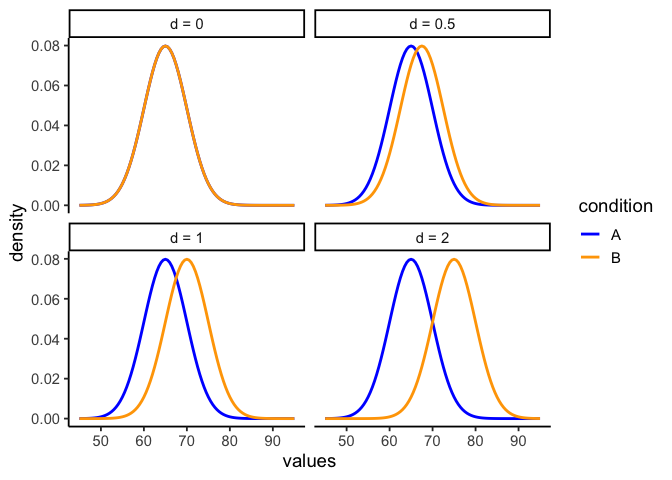
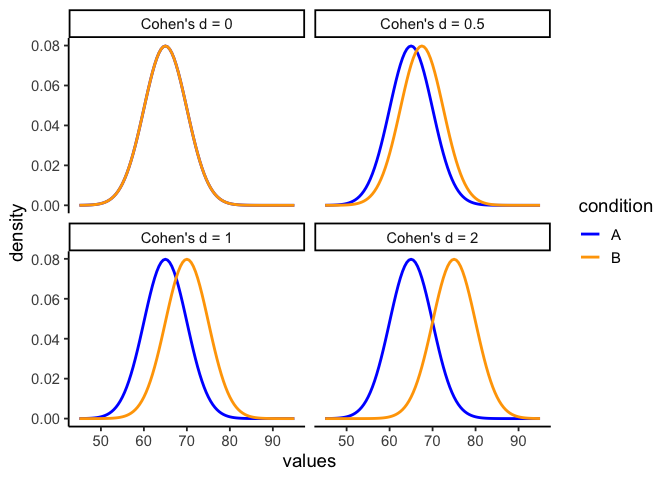
Ch5-6 (live, before Exam 2): Cohen's d throughout Ch5; Ch5 power at d = 0.2 is about 7%, not near zero; Ch6 rule of thumb for |t| > 2, power is estimated by simulation and computed exactly; render Ch5-6

diff --git a/docs/05-Hypothesis_Testing.html b/docs/05-Hypothesis_Testing.html
@@ -523,27 +523,27 @@ Figure&nbsp;5.5: The Type II situation at two sample sizes, with the same <span 
 </ul>
 <p>These statements are easy to interpret, but they are hard to compare across contexts or measures.</p>
 <p><strong>Standardized (unitless).</strong> When units are unfamiliar or scales differ, standardize by typical variability. The most common standardized effect size metric is <strong>Cohen’s <em>d</em></strong> <span class="citation" data-cites="Cohen1988">(<a href="references.html#ref-Cohen1988" role="doc-biblioref">Cohen 1988</a>)</span>. It divides the raw difference, <span class="math inline">\(\Delta\)</span>, by the population standard deviation:</p>
-<p><span class="math display">\[d = \frac{\Delta}{\sigma}\]</span></p>
+<p><span class="math display">\[\text{Cohen's } d = \frac{\Delta}{\sigma}\]</span></p>
 <p><span class="math inline">\(\Delta\)</span> is <span class="math inline">\(\mu_1 - \mu_2\)</span> when comparing two groups, or <span class="math inline">\(\mu - \mu_0\)</span> when testing one mean against a reference value. Now “how big?” is expressed in SD units.</p>
-<p><strong><span class="math inline">\(d\)</span> has the same numerator as <span class="math inline">\(z\)</span> but a different denominator.</strong> Chapter 4 gave the general shape, effect over error, and filled it in with the <span class="math inline">\(z\)</span>:</p>
-<p><span class="math display">\[z = \frac{\bar{x}-\mu_0}{\sigma/\sqrt{n}} \qquad \text{versus} \qquad d = \frac{\mu_1-\mu_2}{\sigma}\]</span></p>
-<p>Both numerators are the effect. The test statistic divides by the standard error, which shrinks as <span class="math inline">\(n\)</span> grows, so <span class="math inline">\(z\)</span> gets larger with more data even when the effect stays exactly the same. Cohen’s <span class="math inline">\(d\)</span> divides by the standard deviation, which does not shrink with <span class="math inline">\(n\)</span>, so <span class="math inline">\(d\)</span> reports the size of the effect itself.</p>
-<p>A large test statistic therefore does not mean a large effect, and the two numbers answer different questions. With enough data, a trivial difference can produce a <span class="math inline">\(z\)</span> as large as you like, while <span class="math inline">\(d\)</span> stays small. The <span class="math inline">\(t\)</span> in Chapter 6 is the same ratio with an estimated <span class="math inline">\(s\)</span> in place of a known <span class="math inline">\(\sigma\)</span>, so the same holds for <span class="math inline">\(t\)</span>.</p>
+<p><strong>Cohen’s <span class="math inline">\(d\)</span> has the same numerator as <span class="math inline">\(z\)</span> but a different denominator.</strong> Chapter 4 gave the general shape, effect over error, and filled it in with the <span class="math inline">\(z\)</span>:</p>
+<p><span class="math display">\[z = \frac{\bar{x}-\mu_0}{\sigma/\sqrt{n}} \qquad \text{versus} \qquad \text{Cohen's } d = \frac{\mu_1-\mu_2}{\sigma}\]</span></p>
+<p>Both numerators are the effect. The test statistic divides by the standard error, which shrinks as <span class="math inline">\(n\)</span> grows, so <span class="math inline">\(z\)</span> gets larger with more data even when the effect stays exactly the same. Cohen’s <span class="math inline">\(d\)</span> divides by the standard deviation, which does not shrink with <span class="math inline">\(n\)</span>, so Cohen’s <span class="math inline">\(d\)</span> reports the size of the effect itself.</p>
+<p>A large test statistic therefore does not mean a large effect, and the two numbers answer different questions. With enough data, a trivial difference can produce a <span class="math inline">\(z\)</span> as large as you like, while Cohen’s <span class="math inline">\(d\)</span> stays small. The <span class="math inline">\(t\)</span> in Chapter 6 is the same ratio with an estimated <span class="math inline">\(s\)</span> in place of a known <span class="math inline">\(\sigma\)</span>, so the same holds for <span class="math inline">\(t\)</span>.</p>
 <p><strong>Environmental example (biodiversity index).</strong> Suppose an index increases from 3 to 4 after reforestation.</p>
 <ul>
 <li><p>In raw units: +1 index point.</p></li>
 <li><p>In standardized terms:</p>
 <ul>
-<li>If the SD across sites is 1.0, then <span class="math inline">\(d = 1.0\)</span>: a large shift.</li>
-<li>If the SD is 10, then <span class="math inline">\(d = 0.10\)</span>: a small shift.</li>
+<li>If the SD across sites is 1.0, then Cohen’s <span class="math inline">\(d = 1.0\)</span>: a large shift.</li>
+<li>If the SD is 10, then Cohen’s <span class="math inline">\(d = 0.10\)</span>: a small shift.</li>
 </ul></li>
 </ul>
 <p><strong>Planning uses <span class="math inline">\(\Delta\)</span>.</strong> To plan a study, <span class="math inline">\(\Delta\)</span> is enough: it is the size of the effect you expect to see, in the units of the study, and there is no need to standardize it. Cohen’s <span class="math inline">\(d\)</span> standardizes it so that effect sizes can be compared across studies.</p>
 <p><strong>Notes for practice</strong></p>
 <ul>
 <li>In real data, <span class="math inline">\(\sigma\)</span> is unknown; estimate it (pooled SD for two groups, with small-sample corrections as needed).</li>
-<li>Heuristics (context matters): <span class="math inline">\(d \approx 0.2\)</span> (small), <span class="math inline">\(d \approx 0.5\)</span> (medium), <span class="math inline">\(d \approx 0.8\)</span> (large).</li>
-<li>A “small” <span class="math inline">\(d\)</span> can still be important (e.g., small reductions in lead or <span class="math inline">\(\mathrm{PM}_{2.5}\)</span> can matter for health).</li>
+<li>Heuristics (context matters): Cohen’s <span class="math inline">\(d \approx 0.2\)</span> (small), 0.5 (medium), 0.8 (large).</li>
+<li>A “small” Cohen’s <span class="math inline">\(d\)</span> can still be important (e.g., small reductions in lead or <span class="math inline">\(\mathrm{PM}_{2.5}\)</span> can matter for health).</li>
 <li>Report a 95% CI with each effect size to show how precisely it was estimated.</li>
 </ul>
 <p>Suppose we’re measuring final exam performance (percent correct). The class mean is 65% with a standard deviation of 5%. Group A is a control, while Group B receives some instructional treatment.</p>
@@ -556,19 +556,19 @@ Figure&nbsp;5.5: The Type II situation at two sample sizes, with the same <span 
 <img src="05-Hypothesis_Testing_files/figure-html/fig-5.5effectdistsB-1.png" class="img-fluid figure-img" style="width:100.0%" alt="Four panels, each showing two overlaid bell-shaped density curves for groups A and B. In the first panel the curves sit exactly on top of each other (no shift). In the next three panels group B's curve shifts progressively further right of group A's, first by a small amount, then a larger amount, and finally a shift so large the two curves barely overlap at all.">
 </div>
 <figcaption class="quarto-float-caption-bottom quarto-float-caption quarto-float-fig" id="fig-5.5effectdistsB-caption-0ceaefa1-69ba-4598-a22c-09a6ac19f8ca">
-Figure&nbsp;5.6: Same idea with concrete scores (mean <span class="math inline">\(65\)</span>, <span class="math inline">\(sd=5\)</span>): treatment shifts correspond to <span class="math inline">\(d=0,\,0.5,\,1,\,2\)</span>.
+Figure&nbsp;5.6: Same idea with concrete scores (mean <span class="math inline">\(65\)</span>, <span class="math inline">\(sd=5\)</span>): treatment shifts correspond to Cohen’s <span class="math inline">\(d=0,\,0.5,\,1,\,2\)</span>.
 </figcaption>
 </figure>
 </div>
 </div>
 </div>
 <ul>
-<li><strong>Panel 1 (<span class="math inline">\(d=0\)</span>).</strong> No effect. Both groups sample from the same distribution (mean = 65).</li>
-<li><strong>Panel 2 (<span class="math inline">\(d=0.5\)</span>).</strong> Group B’s mean shifts upward by 2.5 points (67.5).</li>
-<li><strong>Panel 3 (<span class="math inline">\(d=1\)</span>).</strong> A 5-point shift (70).</li>
-<li><strong>Panel 4 (<span class="math inline">\(d=2\)</span>).</strong> A large 10-point shift (75).</li>
+<li><strong>Panel 1 (Cohen’s <span class="math inline">\(d=0\)</span>).</strong> No effect. Both groups sample from the same distribution (mean = 65).</li>
+<li><strong>Panel 2 (Cohen’s <span class="math inline">\(d=0.5\)</span>).</strong> Group B’s mean shifts upward by 2.5 points (67.5).</li>
+<li><strong>Panel 3 (Cohen’s <span class="math inline">\(d=1\)</span>).</strong> A 5-point shift (70).</li>
+<li><strong>Panel 4 (Cohen’s <span class="math inline">\(d=2\)</span>).</strong> A large 10-point shift (75).</li>
 </ul>
-<p>In <a href="#fig-5.5effectdistsB" class="quarto-xref">Figure&nbsp;<span>5.6</span></a>, a half-SD shift (<span class="math inline">\(d = 0.5\)</span>, 2.5 points) leaves the two curves mostly overlapping, and a two-SD shift (<span class="math inline">\(d = 2\)</span>, 10 points) separates them. In practice, we rarely know beforehand how big a shift to expect.</p>
+<p>In <a href="#fig-5.5effectdistsB" class="quarto-xref">Figure&nbsp;<span>5.6</span></a>, a half-SD shift (Cohen’s <span class="math inline">\(d = 0.5\)</span>, 2.5 points) leaves the two curves mostly overlapping, and a two-SD shift (Cohen’s <span class="math inline">\(d = 2\)</span>, 10 points) separates them. In practice, we rarely know beforehand how big a shift to expect.</p>
 </section>
 <section id="power" class="level2" data-number="5.4">
 <h2 data-number="5.4" class="anchored" data-anchor-id="power"><span class="header-section-number">5.4</span> Power</h2>
@@ -638,10 +638,10 @@ Figure&nbsp;5.6: Same idea with concrete scores (mean <span class="math inline">
 <p>A design’s power depends on how large the true effect is. A power curve plots the power of one fixed design against a range of effect sizes. <a href="#fig-5.5powercurve" class="quarto-xref">Figure&nbsp;<span>5.7</span></a> fixes the design at a two-sample <span class="math inline">\(t\)</span>-test with <span class="math inline">\(n=10\)</span> per group and <span class="math inline">\(\alpha=0.05\)</span>, and plots power against the true effect size, Cohen’s <span class="math inline">\(d\)</span>.</p>
 <div class="cell">
 <div class="cell-output-display">
-<div id="fig-5.5powercurve" class="quarto-float quarto-figure quarto-figure-center anchored" alt="Line graph of power against effect size (Cohen's d) from 0 to 2. The curve starts near 0.05 at d = 0, rises slowly at first, then climbs steeply through the middle of the range, and flattens out near 1.0 as d approaches 2.">
+<div id="fig-5.5powercurve" class="quarto-float quarto-figure quarto-figure-center anchored" alt="Line graph of power against effect size (Cohen's d) from 0 to 2. The curve starts near 0.05 at Cohen's d = 0, rises slowly at first, then climbs steeply through the middle of the range, and flattens out near 1.0 as Cohen's d approaches 2.">
 <figure class="quarto-float quarto-float-fig figure">
 <div aria-describedby="fig-5.5powercurve-caption-0ceaefa1-69ba-4598-a22c-09a6ac19f8ca">
-<img src="05-Hypothesis_Testing_files/figure-html/fig-5.5powercurve-1.png" class="img-fluid figure-img" style="width:100.0%" alt="Line graph of power against effect size (Cohen's d) from 0 to 2. The curve starts near 0.05 at d = 0, rises slowly at first, then climbs steeply through the middle of the range, and flattens out near 1.0 as d approaches 2.">
+<img src="05-Hypothesis_Testing_files/figure-html/fig-5.5powercurve-1.png" class="img-fluid figure-img" style="width:100.0%" alt="Line graph of power against effect size (Cohen's d) from 0 to 2. The curve starts near 0.05 at Cohen's d = 0, rises slowly at first, then climbs steeply through the middle of the range, and flattens out near 1.0 as Cohen's d approaches 2.">
 </div>
 <figcaption class="quarto-float-caption-bottom quarto-float-caption quarto-float-fig" id="fig-5.5powercurve-caption-0ceaefa1-69ba-4598-a22c-09a6ac19f8ca">
 Figure&nbsp;5.7: Power vs.&nbsp;effect size (Cohen’s <span class="math inline">\(d\)</span>) for a two-sample <span class="math inline">\(t\)</span>-test with <span class="math inline">\(n=10\)</span> per group and <span class="math inline">\(\alpha=0.05\)</span>.
@@ -650,9 +650,9 @@ Figure&nbsp;5.7: Power vs.&nbsp;effect size (Cohen’s <span class="math inline"
 </div>
 </div>
 </div>
-<p>With 10 per group, this design detects a medium effect (<span class="math inline">\(d=0.5\)</span>) only about 18% of the time, a larger effect (<span class="math inline">\(d=0.8\)</span>) about 40% of the time, and a very large effect (<span class="math inline">\(d=2\)</span>) almost every time (about 99%). With <span class="math inline">\(n = 10\)</span> per group, only large effects are detected reliably.</p>
-<p>The simulation above estimated power at <span class="math inline">\(d = 0.5\)</span> as about 21%. The two numbers differ because 1,000 simulated experiments give an estimate, while the curve is computed exactly.</p>
-<p>The second curve holds the effect size fixed and varies the sample size. Suppose prior research suggests the effect is small (<span class="math inline">\(d=0.2\)</span>). <a href="#fig-5.5powercurveN" class="quarto-xref">Figure&nbsp;<span>5.8</span></a> plots power against sample size for <span class="math inline">\(d=0.2\)</span>, with a dashed line at 80% power, a common planning target.</p>
+<p>With 10 per group, this design detects a medium effect (Cohen’s <span class="math inline">\(d=0.5\)</span>) only about 18% of the time, a larger effect (Cohen’s <span class="math inline">\(d=0.8\)</span>) about 40% of the time, and a very large effect (Cohen’s <span class="math inline">\(d=2\)</span>) almost every time (about 99%). With <span class="math inline">\(n = 10\)</span> per group, only large effects are detected reliably.</p>
+<p>The simulation above estimated power at Cohen’s <span class="math inline">\(d = 0.5\)</span> as about 21%. The two numbers differ because 1,000 simulated experiments give an estimate, while the curve is computed exactly.</p>
+<p>The second curve holds the effect size fixed and varies the sample size. Suppose prior research suggests the effect is small (Cohen’s <span class="math inline">\(d=0.2\)</span>). <a href="#fig-5.5powercurveN" class="quarto-xref">Figure&nbsp;<span>5.8</span></a> plots power against sample size for Cohen’s <span class="math inline">\(d=0.2\)</span>, with a dashed line at 80% power, a common planning target.</p>
 <div class="cell">
 <div class="cell-output-display">
 <div id="fig-5.5powercurveN" class="quarto-float quarto-figure quarto-figure-center anchored" alt="Line graph of power against sample size per group, from 10 to 800. Power starts near zero at small sample sizes and rises in a curve that flattens as it approaches 1.0. A horizontal reference line at 0.80 power crosses the curve around a sample size of roughly 394 per group.">
@@ -661,13 +661,13 @@ Figure&nbsp;5.7: Power vs.&nbsp;effect size (Cohen’s <span class="math inline"
 <img src="05-Hypothesis_Testing_files/figure-html/fig-5.5powercurveN-1.png" class="img-fluid figure-img" style="width:100.0%" alt="Line graph of power against sample size per group, from 10 to 800. Power starts near zero at small sample sizes and rises in a curve that flattens as it approaches 1.0. A horizontal reference line at 0.80 power crosses the curve around a sample size of roughly 394 per group.">
 </div>
 <figcaption class="quarto-float-caption-bottom quarto-float-caption quarto-float-fig" id="fig-5.5powercurveN-caption-0ceaefa1-69ba-4598-a22c-09a6ac19f8ca">
-Figure&nbsp;5.8: Power vs.&nbsp;sample size for detecting <span class="math inline">\(d=0.2\)</span> with a two-sample <span class="math inline">\(t\)</span>-test at <span class="math inline">\(\alpha=0.05\)</span>; dashed line marks <span class="math inline">\(0.80\)</span> power.
+Figure&nbsp;5.8: Power vs.&nbsp;sample size for detecting Cohen’s <span class="math inline">\(d=0.2\)</span> with a two-sample <span class="math inline">\(t\)</span>-test at <span class="math inline">\(\alpha=0.05\)</span>; dashed line marks <span class="math inline">\(0.80\)</span> power.
 </figcaption>
 </figure>
 </div>
 </div>
 </div>
-<p>At 10 per group, power to detect <span class="math inline">\(d=0.2\)</span> is near zero. Reaching 80% power takes about 394 per group. At that sample size, 20% of studies would still fail to reject <span class="math inline">\(H_0\)</span> for a real effect of <span class="math inline">\(d = 0.2\)</span>.</p>
+<p>At 10 per group, power to detect Cohen’s <span class="math inline">\(d=0.2\)</span> is about 7%. Reaching 80% power takes about 394 per group. At that sample size, 20% of studies would still fail to reject <span class="math inline">\(H_0\)</span> for a real effect of Cohen’s <span class="math inline">\(d = 0.2\)</span>.</p>
 <p>Power analysis is a planning tool. A power target such as 0.8 is calculated for a specific effect size and standard deviation, so report both with it.</p>
 </section>
 <section id="planning-your-design" class="level3" data-number="5.4.4">
@@ -676,7 +676,7 @@ Figure&nbsp;5.8: Power vs.&nbsp;sample size for detecting <span class="math inli
 <ul>
 <li>Define a meaningful effect, <span class="math inline">\(\Delta\)</span>: the smallest difference from <span class="math inline">\(\mu_0\)</span> that would change what you do. State it in the units of the measurement.</li>
 <li>Choose <span class="math inline">\(\alpha\)</span> (often 0.05; justify if different).</li>
-<li>Estimate variability, <span class="math inline">\(\sigma\)</span> (pilot data, literature, or historical monitoring). With <span class="math inline">\(\Delta\)</span> and <span class="math inline">\(\sigma\)</span> you have <span class="math inline">\(d\)</span>, which is what a power calculation needs.</li>
+<li>Estimate variability, <span class="math inline">\(\sigma\)</span> (pilot data, literature, or historical monitoring). With <span class="math inline">\(\Delta\)</span> and <span class="math inline">\(\sigma\)</span> you have Cohen’s <span class="math inline">\(d\)</span>, which is what a power calculation needs.</li>
 <li>Compute <span class="math inline">\(n\)</span> for <span class="math inline">\(\ge 80\%\)</span> power (or explain tradeoffs if you can’t reach it).</li>
 <li>Pre-specify one- vs two-tailed before data collection.</li>
 </ul>
@@ -694,7 +694,7 @@ Figure&nbsp;5.8: Power vs.&nbsp;sample size for detecting <span class="math inli
 <p>Do not compute power after the fact for the effect you observed. This <strong>post-hoc power</strong> is a restatement of the <span class="math inline">\(p\)</span>-value, so a non-significant result always has low post-hoc power. Power for a difference chosen in advance, such as the smallest effect that matters, is fine to report.</p>
 </div>
 </div>
-<p>With 10 per group, only effects of about <span class="math inline">\(d = 1.3\)</span> or larger reach 80% power, and detecting <span class="math inline">\(d = 0.2\)</span> with 80% power takes about 394 per group. Plan the design so it can reliably detect the effects it is meant to measure.</p>
+<p>With 10 per group, only effects of about Cohen’s <span class="math inline">\(d = 1.3\)</span> or larger reach 80% power, and detecting Cohen’s <span class="math inline">\(d = 0.2\)</span> with 80% power takes about 394 per group. Plan the design so it can reliably detect the effects it is meant to measure.</p>
 </section>
 <section id="two-cautions" class="level3" data-number="5.4.5">
 <h3 data-number="5.4.5" class="anchored" data-anchor-id="two-cautions"><span class="header-section-number">5.4.5</span> Two cautions</h3>

diff --git a/docs/06-ttests.html b/docs/06-ttests.html
@@ -426,7 +426,7 @@ Figure&nbsp;6.1: Normal (<span class="math inline">\(z\)</span>) vs.&nbsp;<span 
 <li><span class="math inline">\(z\)</span> uses critical values <span class="math inline">\(\pm 1.96\)</span>.</li>
 <li><span class="math inline">\(t\)</span> uses wider cutoffs for small samples: <span class="math inline">\(\pm 2.26\)</span> at <span class="math inline">\(df = 9\)</span>, <span class="math inline">\(\pm 2.09\)</span> at <span class="math inline">\(df = 20\)</span>, <span class="math inline">\(\pm 2.05\)</span> at <span class="math inline">\(df = 29\)</span>. They approach <span class="math inline">\(\pm 1.96\)</span> as <span class="math inline">\(n\)</span> increases.</li>
 </ul>
-<p><strong>Rule of thumb.</strong> Under <span class="math inline">\(H_0\)</span>, <span class="math inline">\(|t|\)</span> beyond about 2 is rare.</p>
+<p><strong>Rule of thumb.</strong> Under <span class="math inline">\(H_0\)</span>, <span class="math inline">\(|t|\)</span> beyond about 2 happens about 5% of the time once <span class="math inline">\(df\)</span> is 30 or more. With fewer <span class="math inline">\(df\)</span> it happens more often, about 8% at <span class="math inline">\(df = 9\)</span>.</p>
 </section>
 <section id="t-when-h_0-is-true" class="level3" data-number="6.2.4">
 <h3 data-number="6.2.4" class="anchored" data-anchor-id="t-when-h_0-is-true"><span class="header-section-number">6.2.4</span> <span class="math inline">\(t\)</span> when <span class="math inline">\(H_0\)</span> is true</h3>
@@ -940,7 +940,7 @@ Table&nbsp;6.1: The three <span class="math inline">\(t\)</span>-tests compared.
 <section id="simulating-data-for-t-tests" class="level2" data-number="6.6">
 <h2 data-number="6.6" class="anchored" data-anchor-id="simulating-data-for-t-tests"><span class="header-section-number">6.6</span> Simulating data for t-tests</h2>
 <p>Earlier in this chapter we simulated <span class="math inline">\(t\)</span> under <span class="math inline">\(H_0\)</span> and saw its null distribution in <a href="#fig-6t-sim" class="quarto-xref">Figure&nbsp;<span>6.2</span></a>. The same kind of simulation also gives a <span class="math inline">\(p\)</span>-value for each repetition, and those <span class="math inline">\(p\)</span>-values show what a test does when <span class="math inline">\(H_0\)</span> is true and when it is false.</p>
-<p>Simulating under conditions you choose shows how sampling error affects results for a given sample size, expected difference, and amount of variation. Formal power analyses use the same method.</p>
+<p>Simulating under conditions you choose shows how sampling error affects results for a given sample size, expected difference, and amount of variation. Chapter 5 estimated power the same way and checked each estimate against the exact power computed from the <span class="math inline">\(t\)</span> distribution.</p>
 <section id="simulating-a-one-sample-t-test" class="level3" data-number="6.6.1">
 <h3 data-number="6.6.1" class="anchored" data-anchor-id="simulating-a-one-sample-t-test"><span class="header-section-number">6.6.1</span> Simulating a one-sample t-test</h3>
 <p>A simulation has two steps.</p>
@@ -984,7 +984,7 @@ Figure&nbsp;6.9: 1,000 simulated <span class="math inline">\(p\)</span>-values (
 </div>
 </div>
 </div>
-<p>With a real difference, the <span class="math inline">\(p\)</span>-values pile up near 0, while under <span class="math inline">\(H_0\)</span> in <a href="#fig-6flatp" class="quarto-xref">Figure&nbsp;<span>6.8</span></a> they spread evenly from 0 to 1. Here <span class="math inline">\(H_0\)</span> is false, so rejecting it is a correct decision, not a Type I error. The first bar holds the 187 experiments that rejected <span class="math inline">\(H_0\)</span>, and their share of the 1,000 is the design’s power. The other 813 missed a difference that was really there. Chapter 5 showed how a larger sample raises power.</p>
+<p>With a real difference, the <span class="math inline">\(p\)</span>-values pile up near 0, while under <span class="math inline">\(H_0\)</span> in <a href="#fig-6flatp" class="quarto-xref">Figure&nbsp;<span>6.8</span></a> they spread evenly from 0 to 1. Here <span class="math inline">\(H_0\)</span> is false, so rejecting it is a correct decision, not a Type I error. The first bar holds the 187 experiments that rejected <span class="math inline">\(H_0\)</span>, and their share of the 1,000, 18.7%, estimates the design’s power. The exact power for this design, computed from the <span class="math inline">\(t\)</span> distribution, is 19%. The other 813 missed a difference that was really there. Chapter 5 showed how a larger sample raises power.</p>
 </section>
 </section>
 <section id="chapter-summary" class="level2" data-number="6.7">
